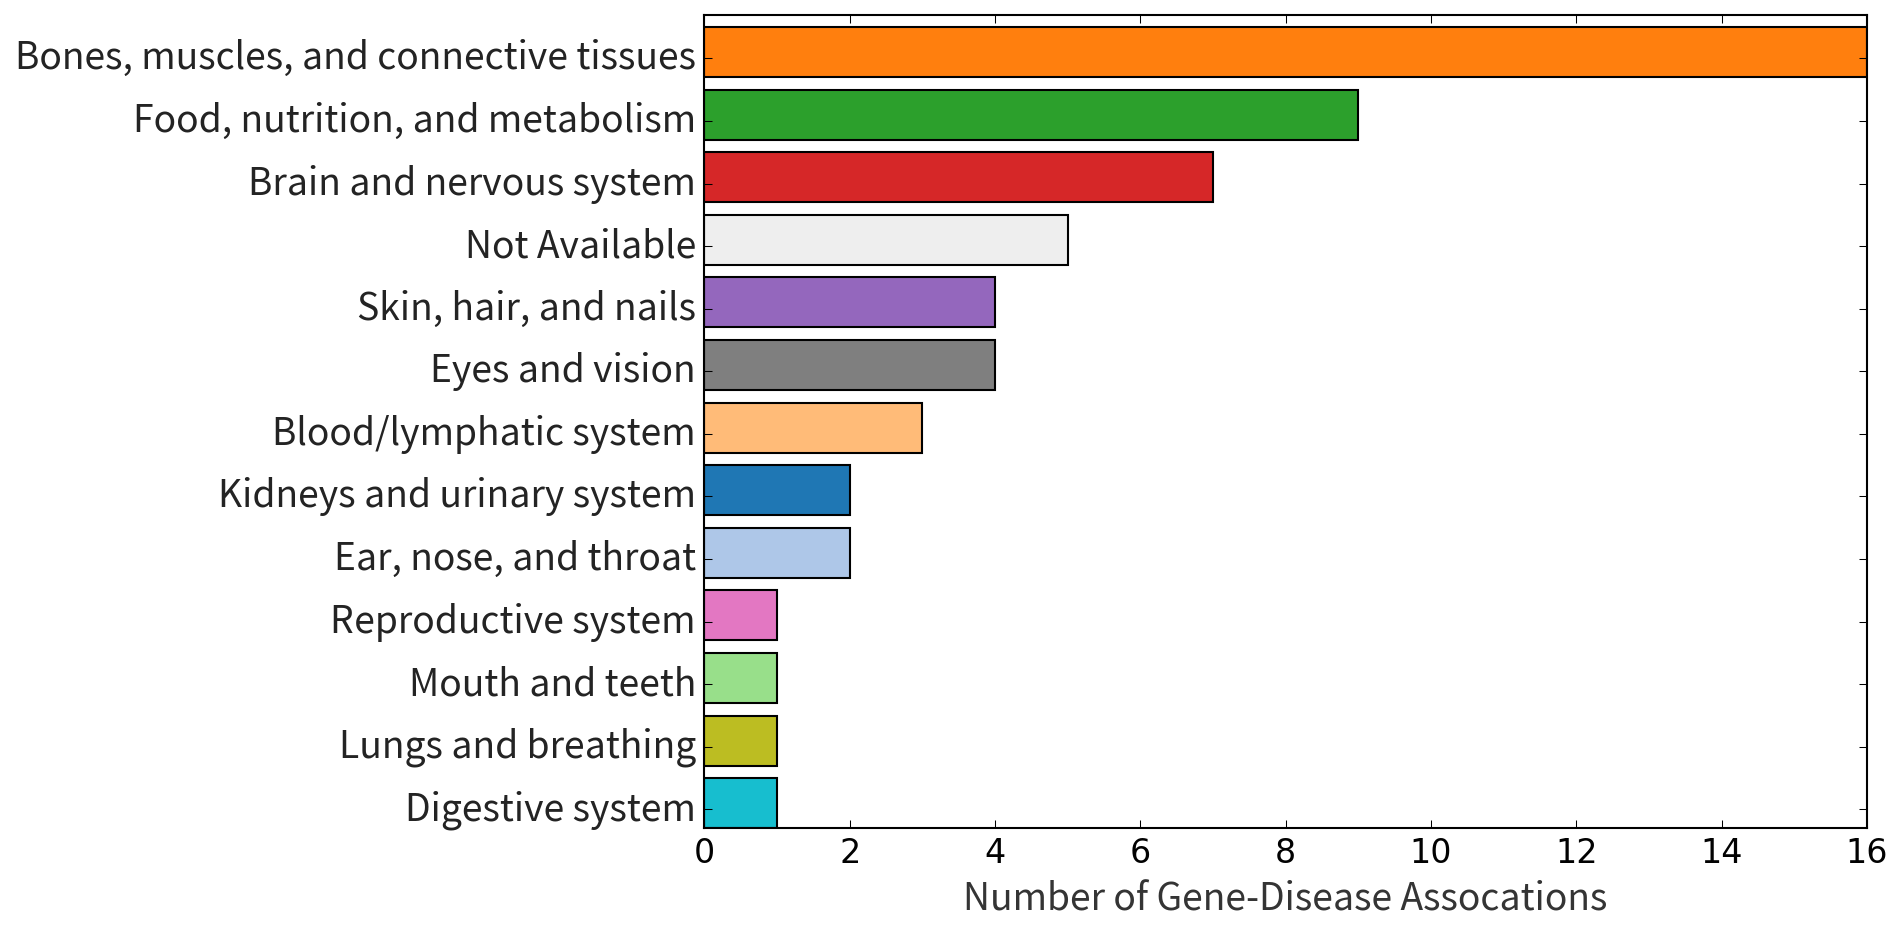
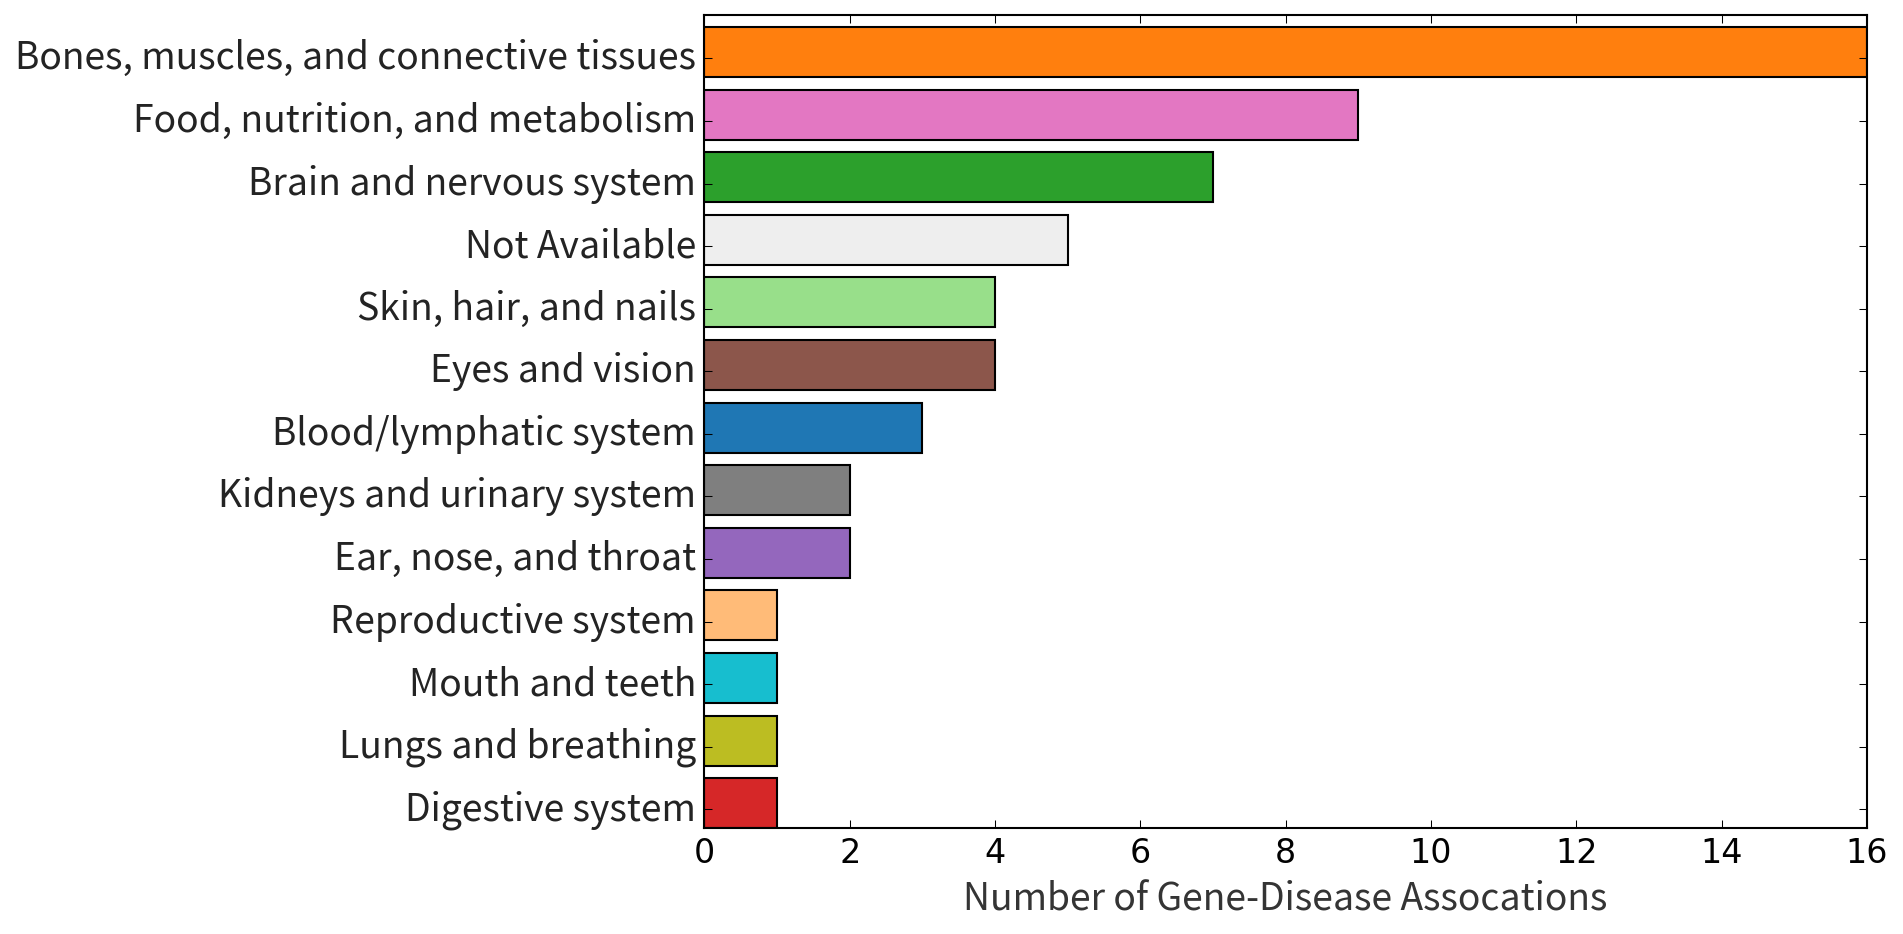
francesco suggested updates 1

Changed region(s): [[0.372, 0.2794, 0.5271, 0.7762], [0.372, 0.0931, 0.7131, 0.2173], [0.372, 0.8073, 0.4341, 0.9004]]

diff --git a/templates/index.html b/templates/index.html
@@ -14,7 +14,7 @@
     <div class="page"><!-- &nbsp; -->
 
       <div class="header" id="grad1">
-        <h1 id="grad1" class="headertop">Examining genetic links to disease</h1>
+        <h1 id="grad1" class="headertop">Uncovering strong &amp; specific genetic links to disease</h1>
         <h2 id="grad1" class="headerbtm">A data-centric approach to drug development</h2>
       </div>
       
@@ -25,18 +25,18 @@
         <figcaption class="fcap">Some diseases may be caused by multiple genes and a single gene may influence one or more diseases.</figcaption>
       </figure>
 
-      <p class="intro"><a href="https://en.wikipedia.org/wiki/Drug_development">Drug development</a> is becoming increasingly costly and time-consuming.</p>
+      <p class="intro"><a href="http://truveris.com/insights.html">Rising drug prices</a> are a serious concern for many Americans.</p>
 
-      <p class="intro">As of 2016, FDA-approved drugs <a href="http://csdd.tufts.edu/news/complete_story/pr_outlook_2016">average $2.6 billion and 15 years of development time</a>.</p> 
+      <p class="intro">Little relief is expected as <a href="https://en.wikipedia.org/wiki/Drug_development">drug development</a> costs continue to climb. As of 2016, FDA-approved drugs <a href="http://csdd.tufts.edu/news/complete_story/pr_outlook_2016">average $2.6 billion and 15 years of development time</a>.</p> 
 
-      <p class="intro">A large percentage of effort is wasted on failed drugs. Drug candidates that make it out of the laboratory and into clinical trials have a <a href="http://www.nature.com/nbt/journal/v32/n1/abs/nbt.2786.html">very low success rate</a> of around 10%.</p>
+      <p class="intro">A large percentage of this effort is wasted on failed drugs. Drug candidates that make it out of the laboratory and into clinical trials have a <a href="http://www.nature.com/nbt/journal/v32/n1/abs/nbt.2786.html">very low success rate</a> of around 10%.</p>
 
 <!--       <p>This data-centric approach is designed to help large and small pharmaceutical companies optimize the direction of their R&D efforts.</p> -->
 	  
 
-      <p class="intro">Fortunately, <a href="http://www.nature.com/ng/journal/v47/n8/full/ng.3314.html">the strength of association</a> between a particular gene and medical condition can help determine the probability of generating a successful therapy.</p>
+      <p class="intro">A <a href="http://www.nature.com/ng/journal/v47/n8/full/ng.3314.html">2015 study</a> suggests that the strength of association between a particular gene and medical condition can help determine the probability of generating a successful therapy.</p>
 
-      <p class="intro">Knowing which therapies are likely to succeed before beginning drug development can help reduce costs and development time.</p>
+      <p class="intro">Knowing which therapies are likely to succeed before beginning drug development can help reduce costs, development time and consumer drug prices.</p>
 <!--       <p>If the gene-disease link is strong, a therapy that targets the associated gene is  likely to successfully treat the disease.</p> -->
 <!--       <p>Strength of association is determined by the amount and quality of data from computational and laboratory investigations of a specific gene-disease pair.</p> -->
 
@@ -53,7 +53,7 @@
       <li>Gene-editing technologies such as <a href="https://en.wikipedia.org/wiki/CRISPR">CRISPR-Cas</a> show strong promise as an entirely new treatment approach. If a disease-causing gene can be identified, it may be possible to develop a gene therapy to treat the genetic source directly.</li>
       </ol>
         
-        <p>&nbsp;</p>
+        <p class="intro">&nbsp;</p>
         
     </div>
 
@@ -69,14 +69,14 @@
 
     <div class="dropdown">
     {% block dropdown %}
-
+    
 <!--     <label for="dropdownMenu1">Disease category:</label> -->
     <form method="post" action="index" > <!-- action must match your next URL -->
-
+    
     <label class="caption" style="padding:0px 10px 0px 10px;">Disease Category:</label>
 
 <!--     <select class="form-control" id="dropdownMenu1" name="disId"> -->
-    <select name="selectioncat">
+    <select name="selectioncat" onchange="javascript: submit()">
       {% for dis in catlist %}
           {% if dis[0]==selcat %}
             <option value="{{ dis[0] }}" selected>{{ dis[1] }}</option>
@@ -88,7 +88,7 @@
 
     <label class="caption" style="padding:0px 10px 0px 20px;">Association Type:</label>
 
-    <select name="selectiontype">
+    <select name="selectiontype" onchange="javascript: submit()">
       {% for atype in atypelist %}
           {% if atype[0]==selatype %}
             <option value="{{ atype[0] }}" selected>{{ atype[1] }}</option>
@@ -100,7 +100,7 @@
     
     <label class="caption" style="padding:0px 10px 0px 20px;">Highest Scoring:</label>
 
-    <select name="selectioncir">
+    <select name="selectioncir" onchange="javascript: submit()">
       {% for perc in perclist %}
           {% if perc[0]==selperc %}
             <option value="{{ perc[0] }}" selected>{{ perc[1] }}</option>
@@ -112,11 +112,13 @@
     
     &nbsp;&nbsp;&nbsp;
 
-    <input type="submit" value="Display">
+<!--     <input type="submit" value="Display"> -->
 
     {% endblock dropdown %}
+    
     </form>
-    <div class="error">{{ errmsg | safe }}</div>
+    
+      <div class="error">{{ errmsg | safe }}</div>
     </div>
 
 
@@ -194,25 +196,19 @@
       <h2 class="subheading">Data analysis</h2>
 
         <figure class="figgda" >
-        <figcaption class="fcap">Distribution of GDA Scores</figcaption>
+        <figcaption class="fcap">Distribution of GDA Association Scores</figcaption>
         <img src="static/fullhist.png" width="100%">
         </figure>
 
       <p>There are two metrics based on the strength of association and the number of associations for each individual gene and each individual disease.</p>
-      <ul><b><i>Strength of association</b> = ( WUniProt + WCTDhuman + WClinVar ) + ( WRat + WMouse ) + ( WGAD + WLHGDN + WBeFree ) + WHPO + WDISEASES</i><br><br>
+      <ul><b><i>Association score</b> = ( WUniProt + WCTDhuman + WClinVar ) + ( WRat + WMouse ) + ( WGAD + WLHGDN + WBeFree ) + WHPO + WDISEASES</i><br><br>
       <i>0 < Strength of association < 1</i>
       </ul>
-  	  <ul><b><i>Gene and disease frequency</b> (ideally, one gene will be linked to one disease; this isn't true in many cases so a frequency score was created)</i><br><br>
-  	  <i>0.4 < Gene and disease frequency < 19.8</i>
+  	  <ul><b><i>Specificity score</b> is the inversion of the frequency describing the number of genes for an associated disease and the number of diseases for the associated gene. For example, </i><br><br>
+  	  <i>0 < Gene and disease frequency < 1</i>
   	  </ul>
 
       <p>The <a href="http://www.disgenet.org/web/DisGeNET/menu/dbinfo">DisGeNet About Page</a> has additional information concerning the strength of association metric.</p>
-          
-      <p>&nbsp;</p>
-      
-      <h2 class="subheading">Future work</h2>
-      
-      <ul><li>Plan to add an adjustable outlier detection model to objectively determine gene-disease associations with the greatest potential for therapeutic success.</li></ul>
     
       <p>&nbsp;</p>
   </div>

diff --git a/static/style.css b/static/style.css
@@ -14,9 +14,9 @@ b               { font-weight: 400; }
                   margin: 0 auto; width: 92%; 
                   clear: both; }
 .header			{ border-bottom: 1px solid #ccc; /*height: 150px;*/ }
-.headertop		{ font-size: 2.4em; padding: 20px 10px 12px 10px; color: #fff; background-color: #1f77b4; margin: 0;  border-bottom: 
+.headertop		{ font-size: 2em; padding: 20px 10px 12px 10px; color: #fff; background-color: #1f77b4; margin: 0;  border-bottom: 
                   2px solid #ccc; font-weight: 600; }
-.headerbtm		{ font-size: 1.4em; padding: 12px 10px 20px 10px; color: #fff; margin: 0; 
+.headerbtm		{ font-size: 1.2em; padding: 12px 10px 20px 10px; color: #fff; margin: 0; 
                   background-color: #1f77b4; }
 .page           { border: 0px solid #fff; padding: 0px; background: white; }
 .page-primary	{ padding: 0px; border: 0px solid #000; width: 90%; margin: auto; }

diff --git a/app.py b/app.py
@@ -11,7 +11,7 @@ from bokeh.embed import components, autoload_static
 app = Flask(__name__)
 
 
-catclr = {'Digestive system': '#17becf', 'Brain and nervous system': '#d62728', 'Blood/lymphatic system': '#ffbb78', 'Reproductive system': '#e377c2', 'Not Available': '#eeeeee', 'Mouth and teeth': '#98df8a', 'Eyes and vision': '#7f7f7f', 'Kidneys and urinary system': '#1f77b4', 'Ear, nose, and throat': '#aec7e8', 'Bones, muscles, and connective tissues': '#ff7f0e', 'Lungs and breathing': '#bcbd22', 'Food, nutrition, and metabolism': '#2ca02c', 'Skin, hair, and nails': '#9467bd'}
+catclr = {'Kidneys and urinary system': '#7f7f7f', 'Food, nutrition, and metabolism': '#e377c2', 'Digestive system': '#d62728', 'Not Available': '#eeeeee', 'Brain and nervous system': '#2ca02c', 'Mouth and teeth': '#17becf', 'Reproductive system': '#ffbb78', 'Lungs and breathing': '#bcbd22', 'Bones, muscles, and connective tissues': '#ff7f0e', 'Blood/lymphatic system': '#1f77b4', 'Eyes and vision': '#8c564b', 'Ear, nose, and throat': '#9467bd', 'Skin, hair, and nails': '#98df8a'}
 
 disease_dict = {'immune': 'Immune system', 'mouth': 'Mouth and teeth', 
                 'kidney': 'Kidneys and urinary system', 
@@ -63,7 +63,6 @@ def index():  #remember the function name does not need to match the URL
     selatype = ''
     errmsg = ''
     selperc = '00'
-#     cirrad = 0
     if request.method=='POST':
         jump = '<script> window.location.hash="gdaplot"; </script>'
         selcat = request.form['selectioncat']
@@ -85,10 +84,6 @@ def index():  #remember the function name does not need to match the URL
     yy = dfall['count_total']
     xx = dfall['score_total']
 
-    # Scatter points for better readability
-#     np.random.seed(1)
-#     rndm = (np.random.random(yy.shape) - 0.5) * 0.8
-
 
     # Generate plot
     output_file("templates/index.html")
@@ -108,16 +103,16 @@ def index():  #remember the function name does not need to match the URL
     )
 
     hover = HoverTool(tooltips=[("Disease", "@desc"), ("Category", "@cat"), 
-    ("Gene", "@desc2"), ("Type", "@assoc"), ("Strength", "@x{0.000}"), ("Frequency", 
+    ("Gene", "@desc2"), ("Type", "@assoc"), ("Association", "@x{0.000}"), ("Specificity", 
     "@y{0.000}")], names=['pts'])
 
 
 
     p = figure(plot_width=900, plot_height=600, tools=['box_zoom','pan','reset',
-    'save',hover], x_range=[0,0.8], y_range=[0,0.8])
+    'save',hover], x_range=[0,0.8], y_range=[0,0.8], title='Gene-disease association surpassing high-scoring threshold')
     p.title_text_font = 'Source Sans Pro'
-    p.xaxis.axis_label = 'Strength of Association'
-    p.yaxis.axis_label = 'Gene and Disease Frequency'
+    p.xaxis.axis_label = 'Association Score'
+    p.yaxis.axis_label = 'Specificity Score'
     p.xaxis.axis_label_text_font = 'Source Sans Pro'
     p.yaxis.axis_label_text_font = 'Source Sans Pro'
 
@@ -141,11 +136,6 @@ def index():  #remember the function name does not need to match the URL
     updated='{modt:%B} {modt.day}, {modt:%Y}'.format(modt=datetime.date.fromtimestamp(t))
 
 #     updated = 'February 2, 2016'
-
-#     if request.method=='POST':
-#         return render_template(url_for('index',_anchor='box'), script=script, div=div, 
-#         dislist = dislist, updated=updated)
-#     else:
 
 
     return render_template('index.html', script=script, div=div, catlist=catlist, atypelist=atypelist, selcat=selcat, selatype=selatype, perclist=perclist, selperc=selperc, updated=updated, jumpscript=jump, errmsg = errmsg)        
